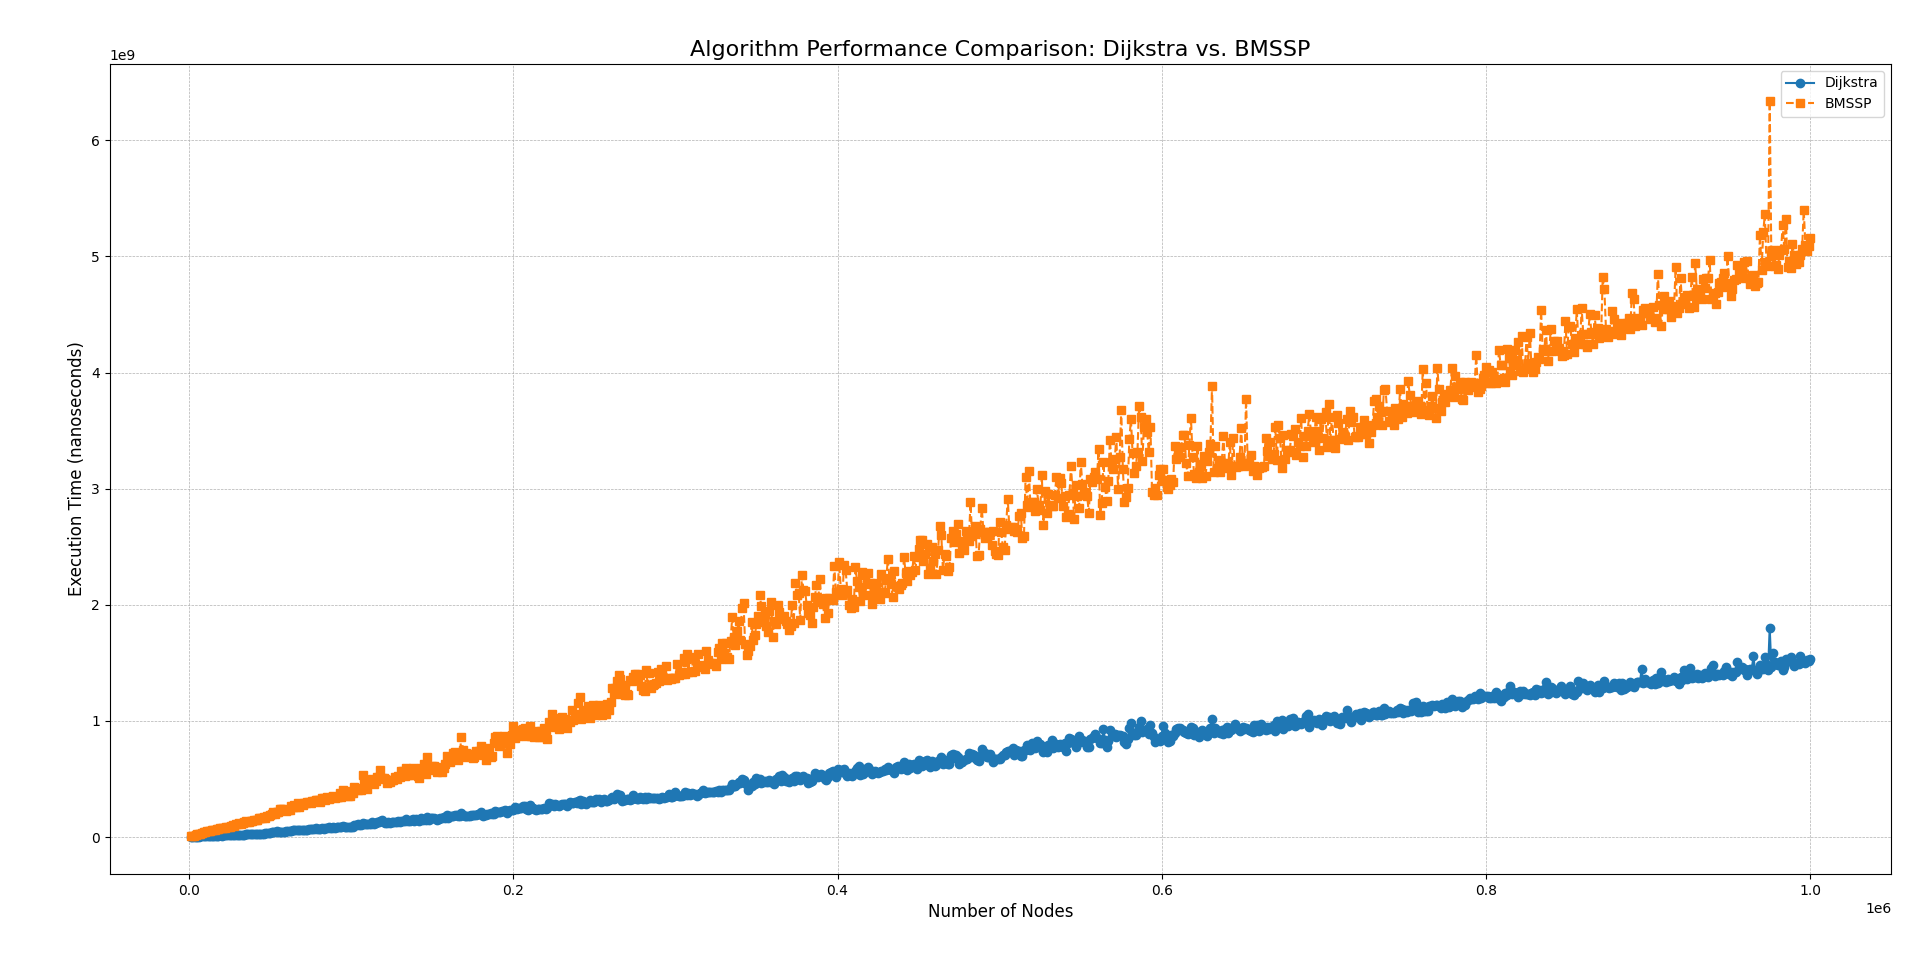
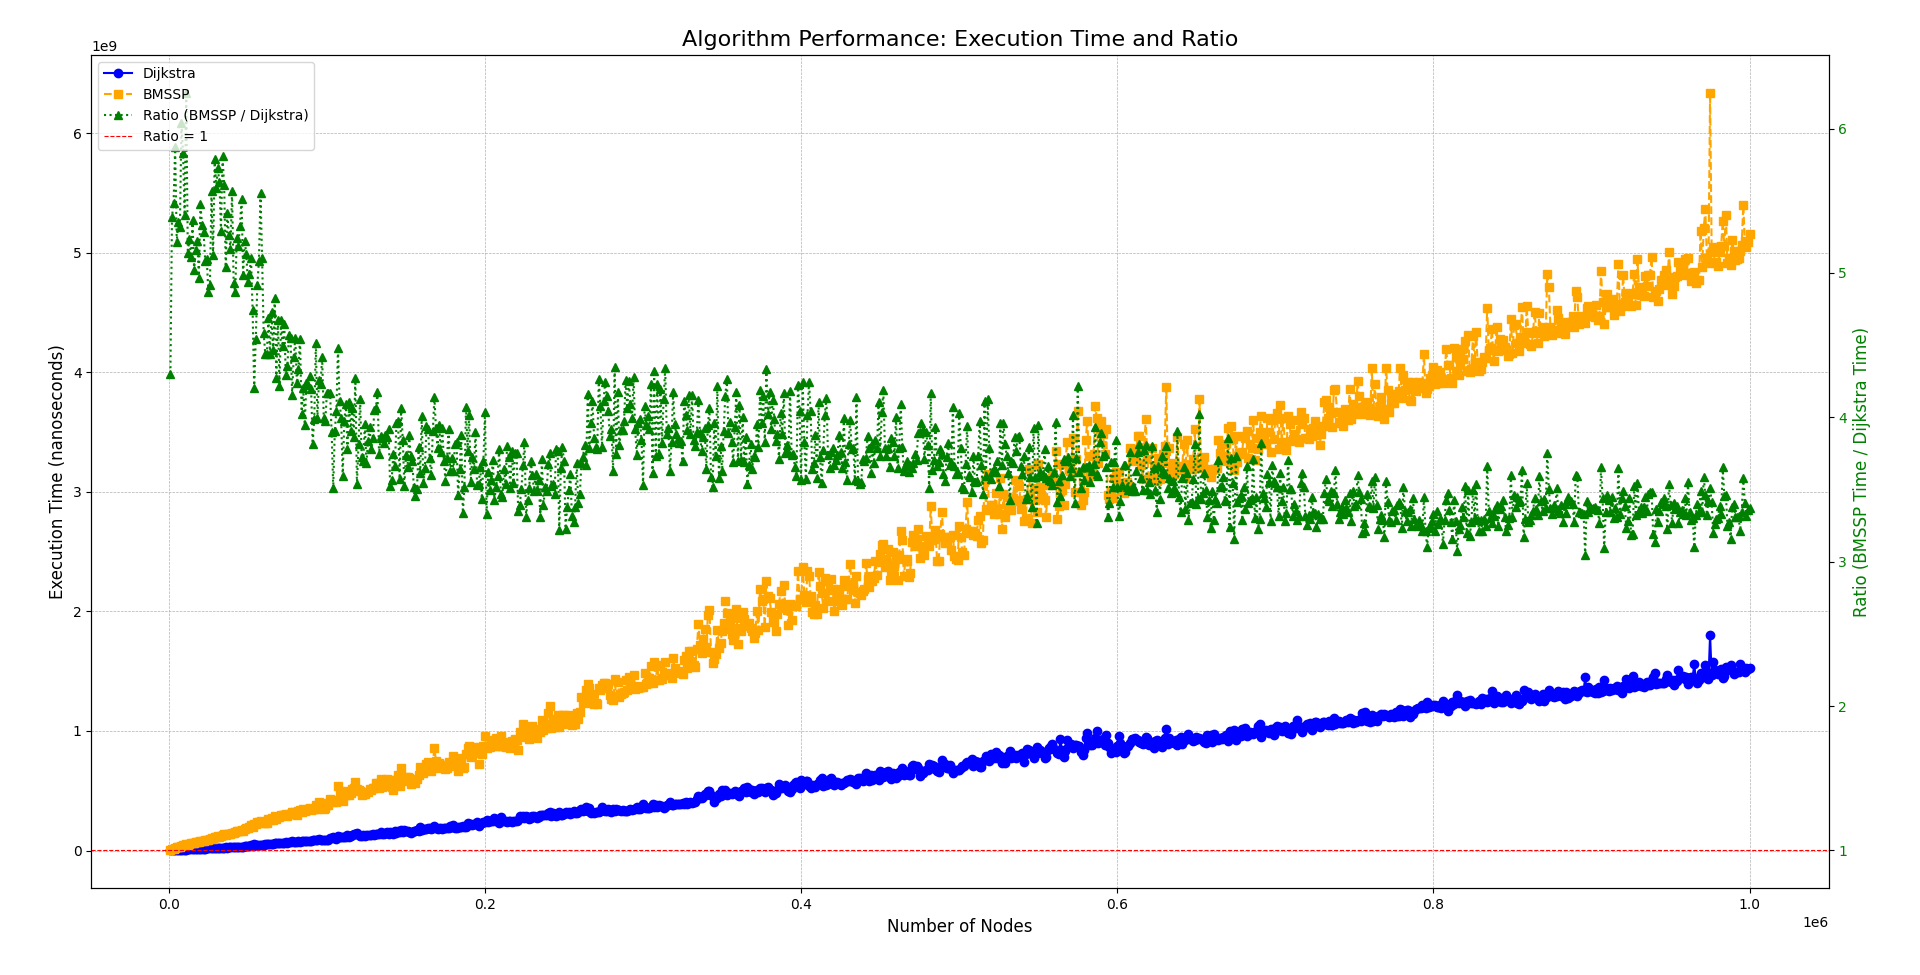
added ration between times

diff --git a/plotter.py b/plotter.py
@@ -3,55 +3,64 @@ import matplotlib.pyplot as plt
 
 def plot_algorithm_performance(file_path):
     """
-    Reads algorithm performance data from a CSV file and plots the results.
+    Reads algorithm performance data from a CSV file and plots the results,
+    including a secondary axis for the ratio between the two algorithms.
 
     Args:
         file_path (str): The path to the CSV file containing the data.
                          Expected columns: 'Nodes', 'Dijkstra', 'BMSSP'.
     """
     try:
-        # Read the data from the CSV file into a pandas DataFrame.
-        # A DataFrame is like a spreadsheet or a SQL table.
         data = pd.read_csv(file_path)
 
+        # --- NEW: Calculate the ratio ---
+        # Avoid division by zero if Dijkstra's time is 0 for some reason
+        if (data['Dijkstra'] == 0).any():
+            print("Warning: Dijkstra's algorithm has zero execution time for some entries. Ratio cannot be calculated.")
+            # Create a column of NaNs (Not a Number) for the ratio
+            data['Ratio'] = float('nan')
+        else:
+            data['Ratio'] = data['BMSSP'] / data['Dijkstra']
+
         # --- Create the Plot ---
+        # We now use subplots to get access to the axis objects `ax1` and `ax2`
+        fig, ax1 = plt.subplots(figsize=(12, 7))
 
-        # Set the size of the plot figure for better visibility
-        plt.figure(figsize=(10, 6))
+        # --- Plot Original Data on the Primary Y-Axis (ax1) ---
+        ax1.plot(data['Nodes'], data['Dijkstra'], marker='o', linestyle='-', label='Dijkstra', color='blue')
+        ax1.plot(data['Nodes'], data['BMSSP'], marker='s', linestyle='--', label='BMSSP', color='orange')
 
-        # Plot the 'Nodes' column on the x-axis and 'Dijkstra' on the y-axis.
-        # We add a label for the legend and a marker for each data point.
-        plt.plot(data['Nodes'], data['Dijkstra'], marker='o', linestyle='-', label='Dijkstra')
+        # --- Customize the Primary Y-Axis ---
+        ax1.set_xlabel('Number of Nodes', fontsize=12)
+        ax1.set_ylabel('Execution Time (nanoseconds)', fontsize=12, color='black')
+        ax1.tick_params(axis='y', labelcolor='black')
+        ax1.ticklabel_format(style='sci', axis='y', scilimits=(0,0))
 
-        # Plot the 'Nodes' column on the x-axis and 'BMSSP' on the y-axis.
-        plt.plot(data['Nodes'], data['BMSSP'], marker='s', linestyle='--', label='BMSSP')
-
-        # --- Customize the Plot ---
-
-        # Add a title to the plot
-        plt.title('Algorithm Performance Comparison: Dijkstra vs. BMSSP', fontsize=16)
-
-        # Add a label to the x-axis
-        plt.xlabel('Number of Nodes', fontsize=12)
-
-        # Add a label to the y-axis (assuming the time is in nanoseconds from your example)
-        plt.ylabel('Execution Time (nanoseconds)', fontsize=12)
-
-        # Display a legend to identify which line corresponds to which algorithm
-        plt.legend()
-
-        # Add a grid for easier reading of values
-        plt.grid(True, which='both', linestyle='--', linewidth=0.5)
+        # --- NEW: Create and Plot Ratio Data on the Secondary Y-Axis (ax2) ---
+        # Create a second y-axis that shares the same x-axis
+        ax2 = ax1.twinx()
+        ax2.plot(data['Nodes'], data['Ratio'], marker='^', linestyle=':', label='Ratio (BMSSP / Dijkstra)', color='green')
         
-        # Use scientific notation for the y-axis to keep it clean if numbers are large
-        plt.ticklabel_format(style='sci', axis='y', scilimits=(0,0))
-        
-        # Adjust layout to make sure everything fits without overlapping
+        # --- NEW: Customize the Secondary Y-Axis ---
+        ax2.set_ylabel('Ratio (BMSSP Time / Dijkstra Time)', fontsize=12, color='green')
+        ax2.tick_params(axis='y', labelcolor='green')
+        # We can add a horizontal line at y=1 to see where one algorithm becomes faster than the other
+        ax2.axhline(y=1, color='red', linestyle='--', linewidth=0.8, label='Ratio = 1')
+
+
+        # --- Customize the Overall Plot ---
+        plt.title('Algorithm Performance: Execution Time and Ratio', fontsize=16)
+        ax1.grid(True, which='both', linestyle='--', linewidth=0.5)
+
+        # --- NEW: Combine Legends from Both Axes ---
+        # To display all labels in one legend box, we get handles/labels from both axes
+        lines1, labels1 = ax1.get_legend_handles_labels()
+        lines2, labels2 = ax2.get_legend_handles_labels()
+        ax2.legend(lines1 + lines2, labels1 + labels2, loc='upper left')
+
         plt.tight_layout()
 
         # --- Show the Plot ---
-
-        # Display the plot in a new window
         print("Displaying the plot. Close the plot window to exit the script.")
         plt.show()
 
@@ -65,7 +74,5 @@ def plot_algorithm_performance(file_path):
         print(f"An unexpected error occurred: {e}")
 
 if __name__ == '__main__':
-    # The name of your data file.
-    # Make sure this file is in the same folder as your Python script.
     csv_file = 'results.csv'
     plot_algorithm_performance(csv_file)
